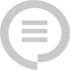
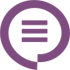
1th

diff --git a/themes/myfirst/stylesheets/bootstrap.min.css b/themes/myfirst/stylesheets/bootstrap.min.css
@@ -1,22 +1,26 @@
 .mysider{
-	margin: 110px 5px 5px 5px;
-	padding: 0 0 5px 0;
+	padding: 5px 10px 5px 5px;
 	float: left;
 }
 
-.post{
-	padding: 10px;
-	border-radius:4px;
-	box-shadow:0 1px 4px rgba(0,0,0,0.065);
-	margin-top: 5px;
+li{
+	line-height: 150%;
 }
 
-a.con{
-	padding-left: 10px;
+.post{
+	padding: 15px;
+	border-radius:4px;
+	margin-top: 5px;
+	background: #fafafa;
+}
+
+div.con{
+	margin-left: 12px;
+	float:left;
 }
 
 div.maincontainer{
- 	margin:0 15px 0 10px;
+ 	padding: 0 12px 0 11px;
 	float:left;
 }
 
@@ -31,11 +35,11 @@ div.maincontainer{
 	background-color: #330033;
 	float:left;
 	width:26%;
-	min-height:190px;
+	min-height:185px;
 	margin-left: 1%;
 	padding: 10px 10px 10px 10px;
 	border-radius:8px;
-	box-shadow:0 1px 4px rgba(0,0,0,0.065);
+	box-shadow:0 1px 4px #663366;
 	margin-top: 5px;
 	text-align:center;
 }
@@ -44,12 +48,12 @@ div.maincontainer{
 	background-color: #663366;
 	color: white;
 	float:left;
-	width:26%;
-	min-height:190px;
+	width:30%;
+	min-height:185px;
 	margin-left:2%;
 	padding: 10px 10px 10px 10px;
 	border-radius:8px;
-	box-shadow:0 1px 4px rgba(0,0,0,0.065);
+	box-shadow:0 1px 4px #663366;
 	margin-top: 5px;
 	text-shadow: 0 1px 3px rgba(0, 0, 0, .4), 0 0 30px rgba(0, 0, 0, .075);
 }
@@ -58,19 +62,19 @@ div.maincontainer{
 	background-color: #6D3353;
 	color:white;
 	float:left;
-	width:34%;
-	min-height:190px;
+	width:30%;
+	min-height:185px;
 	margin-left:2%;
 	padding: 10px 10px 10px 10px;
 	border-radius:8px;
-	box-shadow:0 1px 4px rgba(0,0,0,0.065);
+	box-shadow:0 1px 4px #663366;
 	margin-top: 5px;
 	text-align:center;	
 	text-shadow: 0 1px 3px rgba(0, 0, 0, .4), 0 0 30px rgba(0, 0, 0, .075);
 }
 
 .read_more{
-	padding: 5px 10px 5px 500px
+	padding: 5px 10px 5px 460px;
 }
 
 /*!
@@ -218,13 +222,13 @@ body{
 }
 
 a{
-	color:#996666;
+	color:#663366;
 	text-decoration:none
 }
 
 a:hover{
-	color:#333333
-	text-decoration:underline
+	color:#6D3353;
+	text-decoration:underline;
 }
 
 .img-rounded{
@@ -371,10 +375,10 @@ a:hover{
 }
 
 .row-fluid{
-	margin-top: 10px;
+	margin-top: 20px;
 	width:100%;
 	*zoom:1;
-	background-color: #fdfdfd;
+	background-color: #f5f5f5;
 	padding: 0px 10px 10px;
 	border:1px solid #d4d4d4;
 	-webkit-border-radius:4px;
@@ -382,9 +386,9 @@ a:hover{
 	border-radius:10px;
 	filter:progid:DXImageTransform.Microsoft.gradient(startColorstr='#ffffffff',endColorstr='#fff2f2f2',GradientType=0);
 	*zoom:1;
-	-webkit-box-shadow:0 1px 4px rgba(0,0,0,0.065);
-	-moz-box-shadow:0 1px 4px rgba(0,0,0,0.065);
-	box-shadow:0 1px 4px rgba(0,0,0,0.065)
+	-webkit-box-shadow:0 1px 20px #cc99cc;
+	-moz-box-shadow:0 1px 20px #cc99cc;
+	box-shadow:0 1px 20px #cc99cc;
 }
 
 .row-fluid:before,.row-fluid:after{
@@ -766,10 +770,6 @@ ul,ol{
 
 ul ul,ul ol,ol ol,ol ul{
 	margin-bottom:0
-}
-
-li{
-	line-height:20px
 }
 
 ul.unstyled,ol.unstyled{
@@ -3776,9 +3776,9 @@ button.btn.btn-mini,input[type="submit"].btn.btn-mini{
 	border-radius:4px;
 	filter:progid:DXImageTransform.Microsoft.gradient(startColorstr='#ffffffff',endColorstr='#fff2f2f2',GradientType=0);
 	*zoom:1;
-	-webkit-box-shadow:0 1px 4px rgba(0,0,0,0.065);
-	-moz-box-shadow:0 1px 4px rgba(0,0,0,0.065);
-	box-shadow:0 1px 4px rgba(0,0,0,0.065)
+	-webkit-box-shadow:0 1px 4px #663366;
+	-moz-box-shadow:0 1px 4px #663366;
+	box-shadow:0 1px 4px #663366
 	
 	(
 }

diff --git a/themes/myfirst/layouts/default.html b/themes/myfirst/layouts/default.html
@@ -20,16 +20,22 @@
 				<div class="mysider">
 					<div class="mecontainer">
 						<div class="maincontainer">
-							<a href="/"  alt="Home"><img src="{{urls.theme_media}}/index.png"/></a>
+							<a href="/"><img title="Home" src="{{urls.theme_media}}/index.png"/></a>
 						</div>
 						<div class="maincontainer">
-							<a href="/about"  alt="About"><img src="{{urls.theme_media}}/about.png"/></a>
+							<a href="/about"><img title="About" src="{{urls.theme_media}}/about.png"/></a>
 						</div>
 					</div>
 					<div class = "mecontainer">
-						<a class="con" href="http://twitter.com/XingShine" target="_blank"  alt="Follow me on Twitter"><img src="{{urls.theme_media}}/twitter.png"/></a>
-						<a class="con" href="http://www.facebook.com/hxpax" target="_blank"  alt="Like me on Facebook"><img src="{{urls.theme_media}}/facebook.png"/></a>
-						<a class="con" href="{{url}}/atom.xml" target="_blank"  alt="Rss"><img src="{{urls.theme_media}}/rss.png"/></a>
+						<div class="con">
+							<a href="http://twitter.com/XingShine" target="_blank"><img title="Follow me on Twitter" src="{{urls.theme_media}}/twitter.png"/></a>
+						</div>
+						<div class="con">
+							<a class="con" href="http://www.facebook.com/hxpax" target="_blank"><img title="Like me on Facebook" src="{{urls.theme_media}}/facebook.png"/></a>
+						</div>
+						<div class="con">
+							<a class="con" href="{{url}}/atom.xml" target="_blank"><img  title="Rss" src="{{urls.theme_media}}/rss.png"/></a>
+						</div>
 					</div>
 					<div class="mecontainer">
 					{{# db.posts.collated }}

diff --git a/themes/myfirst/stylesheets/style.css b/themes/myfirst/stylesheets/style.css
@@ -12,6 +12,8 @@ body{
 	-webkit-box-shadow: inset 0 3px 7px rgba(0, 0, 0, .2), inset 0 -3px 7px rgba(0, 0, 0, .2);
 	-moz-box-shadow: inset 0 3px 7px rgba(0,0,0,.2), inset 0 -3px 7px rgba(0,0,0,.2);
 	box-shadow: inset 0 3px 7px rgba(0, 0, 0, .2), inset 0 -3px 7px rgba(0, 0, 0, .2);
+	font-size: medium;
+	line-height: 180%;
 }
 
 .navbar {
@@ -42,13 +44,8 @@ body{
 
 /* Page header tweaks */
 .page-header {
-	background-color: #EEEEEE;
-	padding: 10px 10px 10px 20px;
-	margin-top: 0px;
-	margin-right: -251px;
-	margin-left: -11px;
-  	border-radius:8px;
-	box-shadow:0 1px 4px rgba(0,0,0,0.065);
+	padding: 10px 10px 10px 10px;
+	margin-top: 10px;
 	text-align:center;
 	color: #6D3353;	
 	text-shadow: 0 1px 3px rgba(0, 0, 0, .4), 0 0 30px rgba(0, 0, 0, .075);

diff --git a/posts/some awsome pics.md b/posts/some awsome pics.md
@@ -1,0 +1,11 @@
+---
+title: some awsome pics
+date: '2011-12-21'
+description:
+categories: 
+tags: [pic, funny]
+
+layout: post
+---
+
+<img src="{{ urls.media }}/2012_03_07_1.jpg"/>
